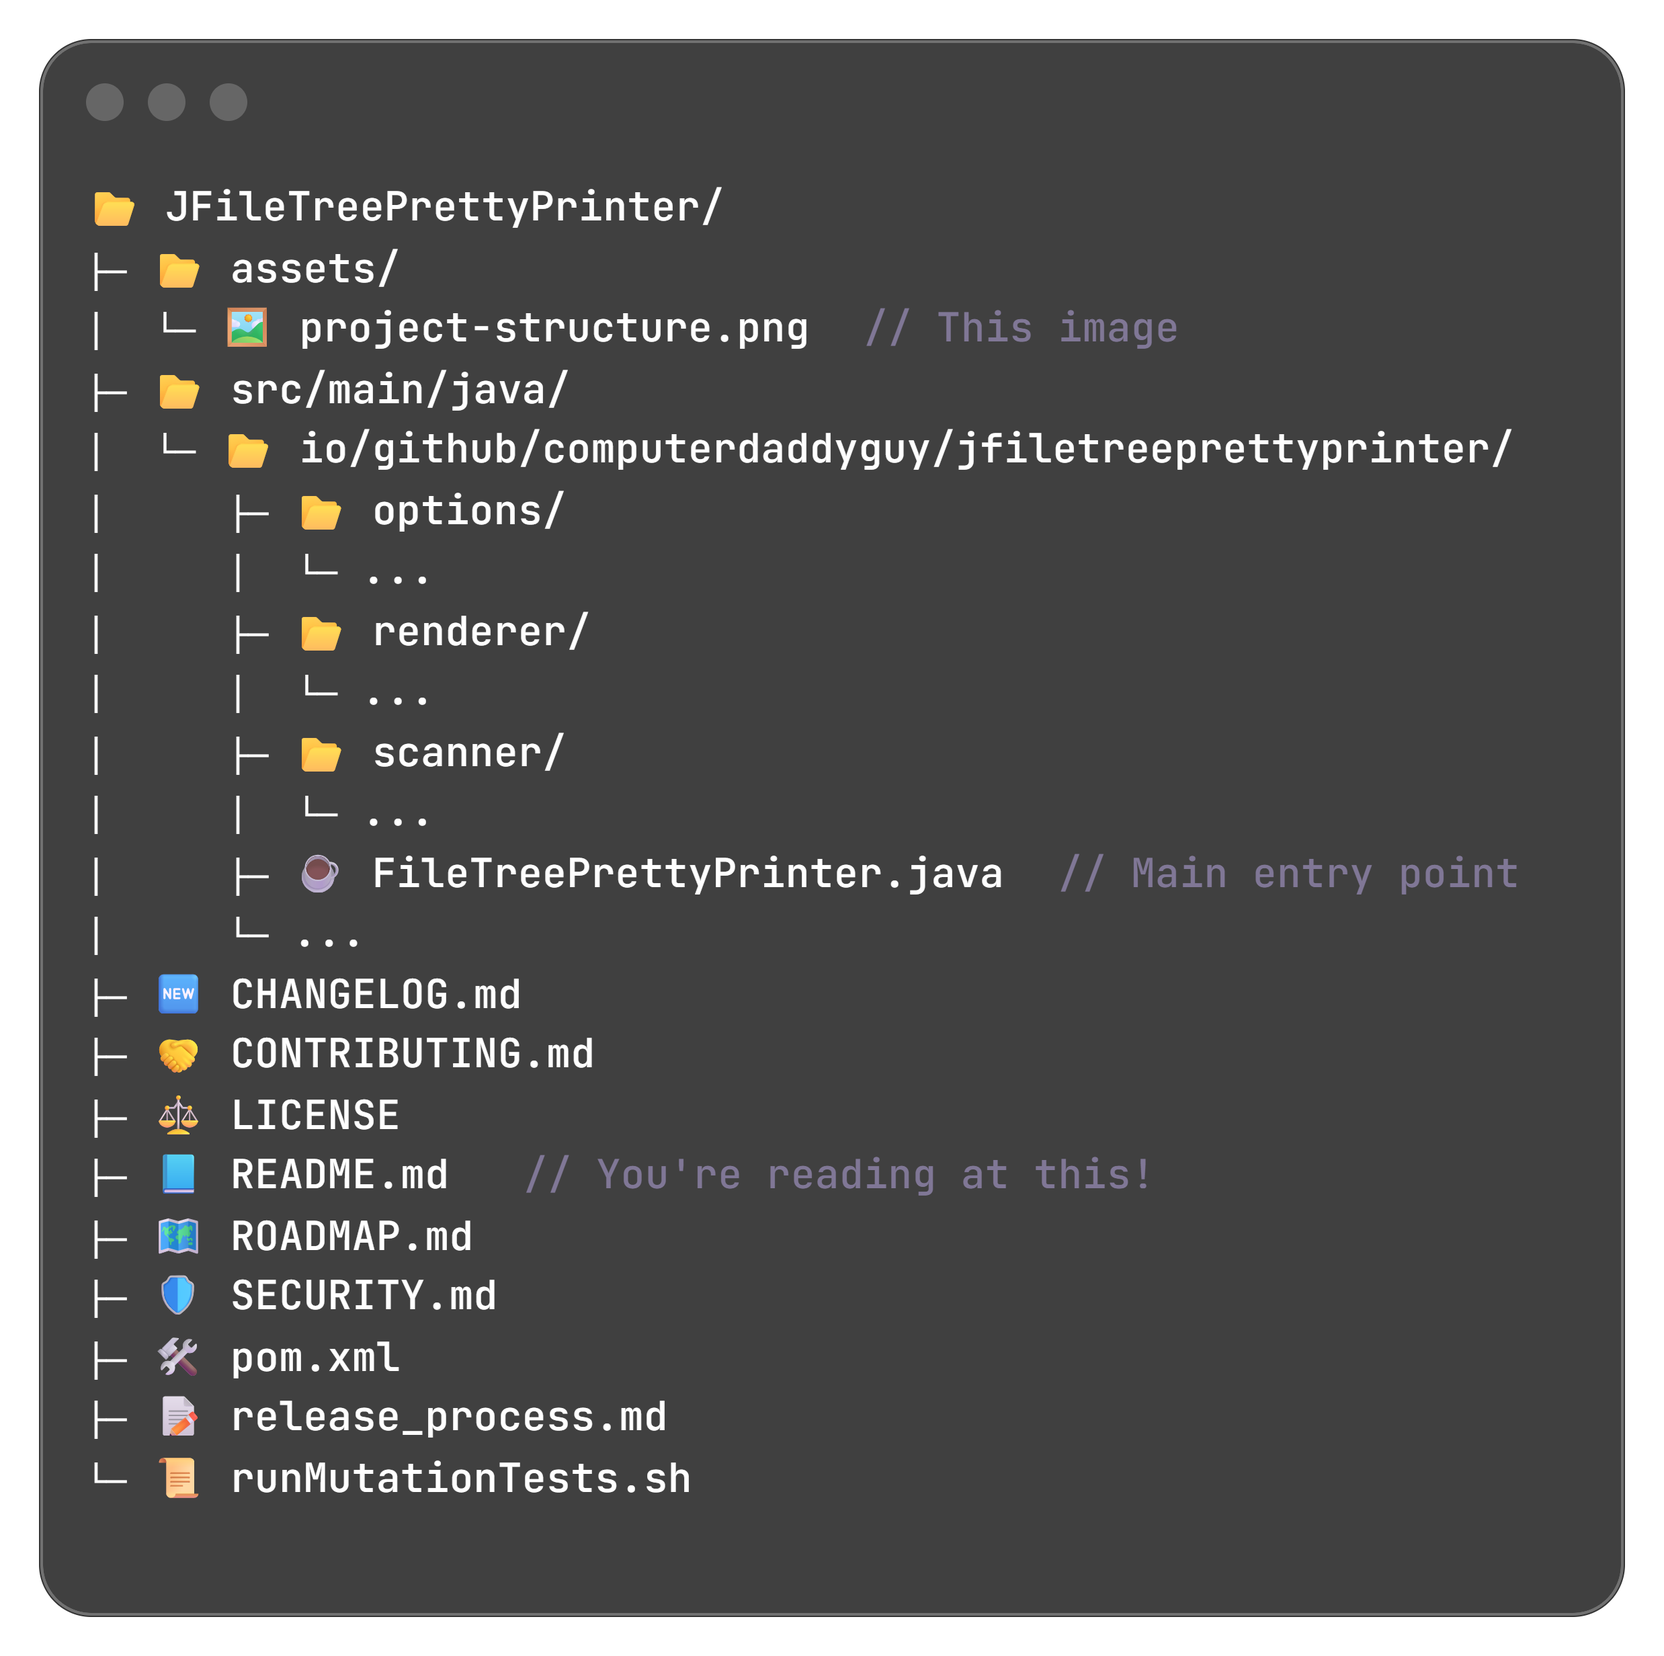
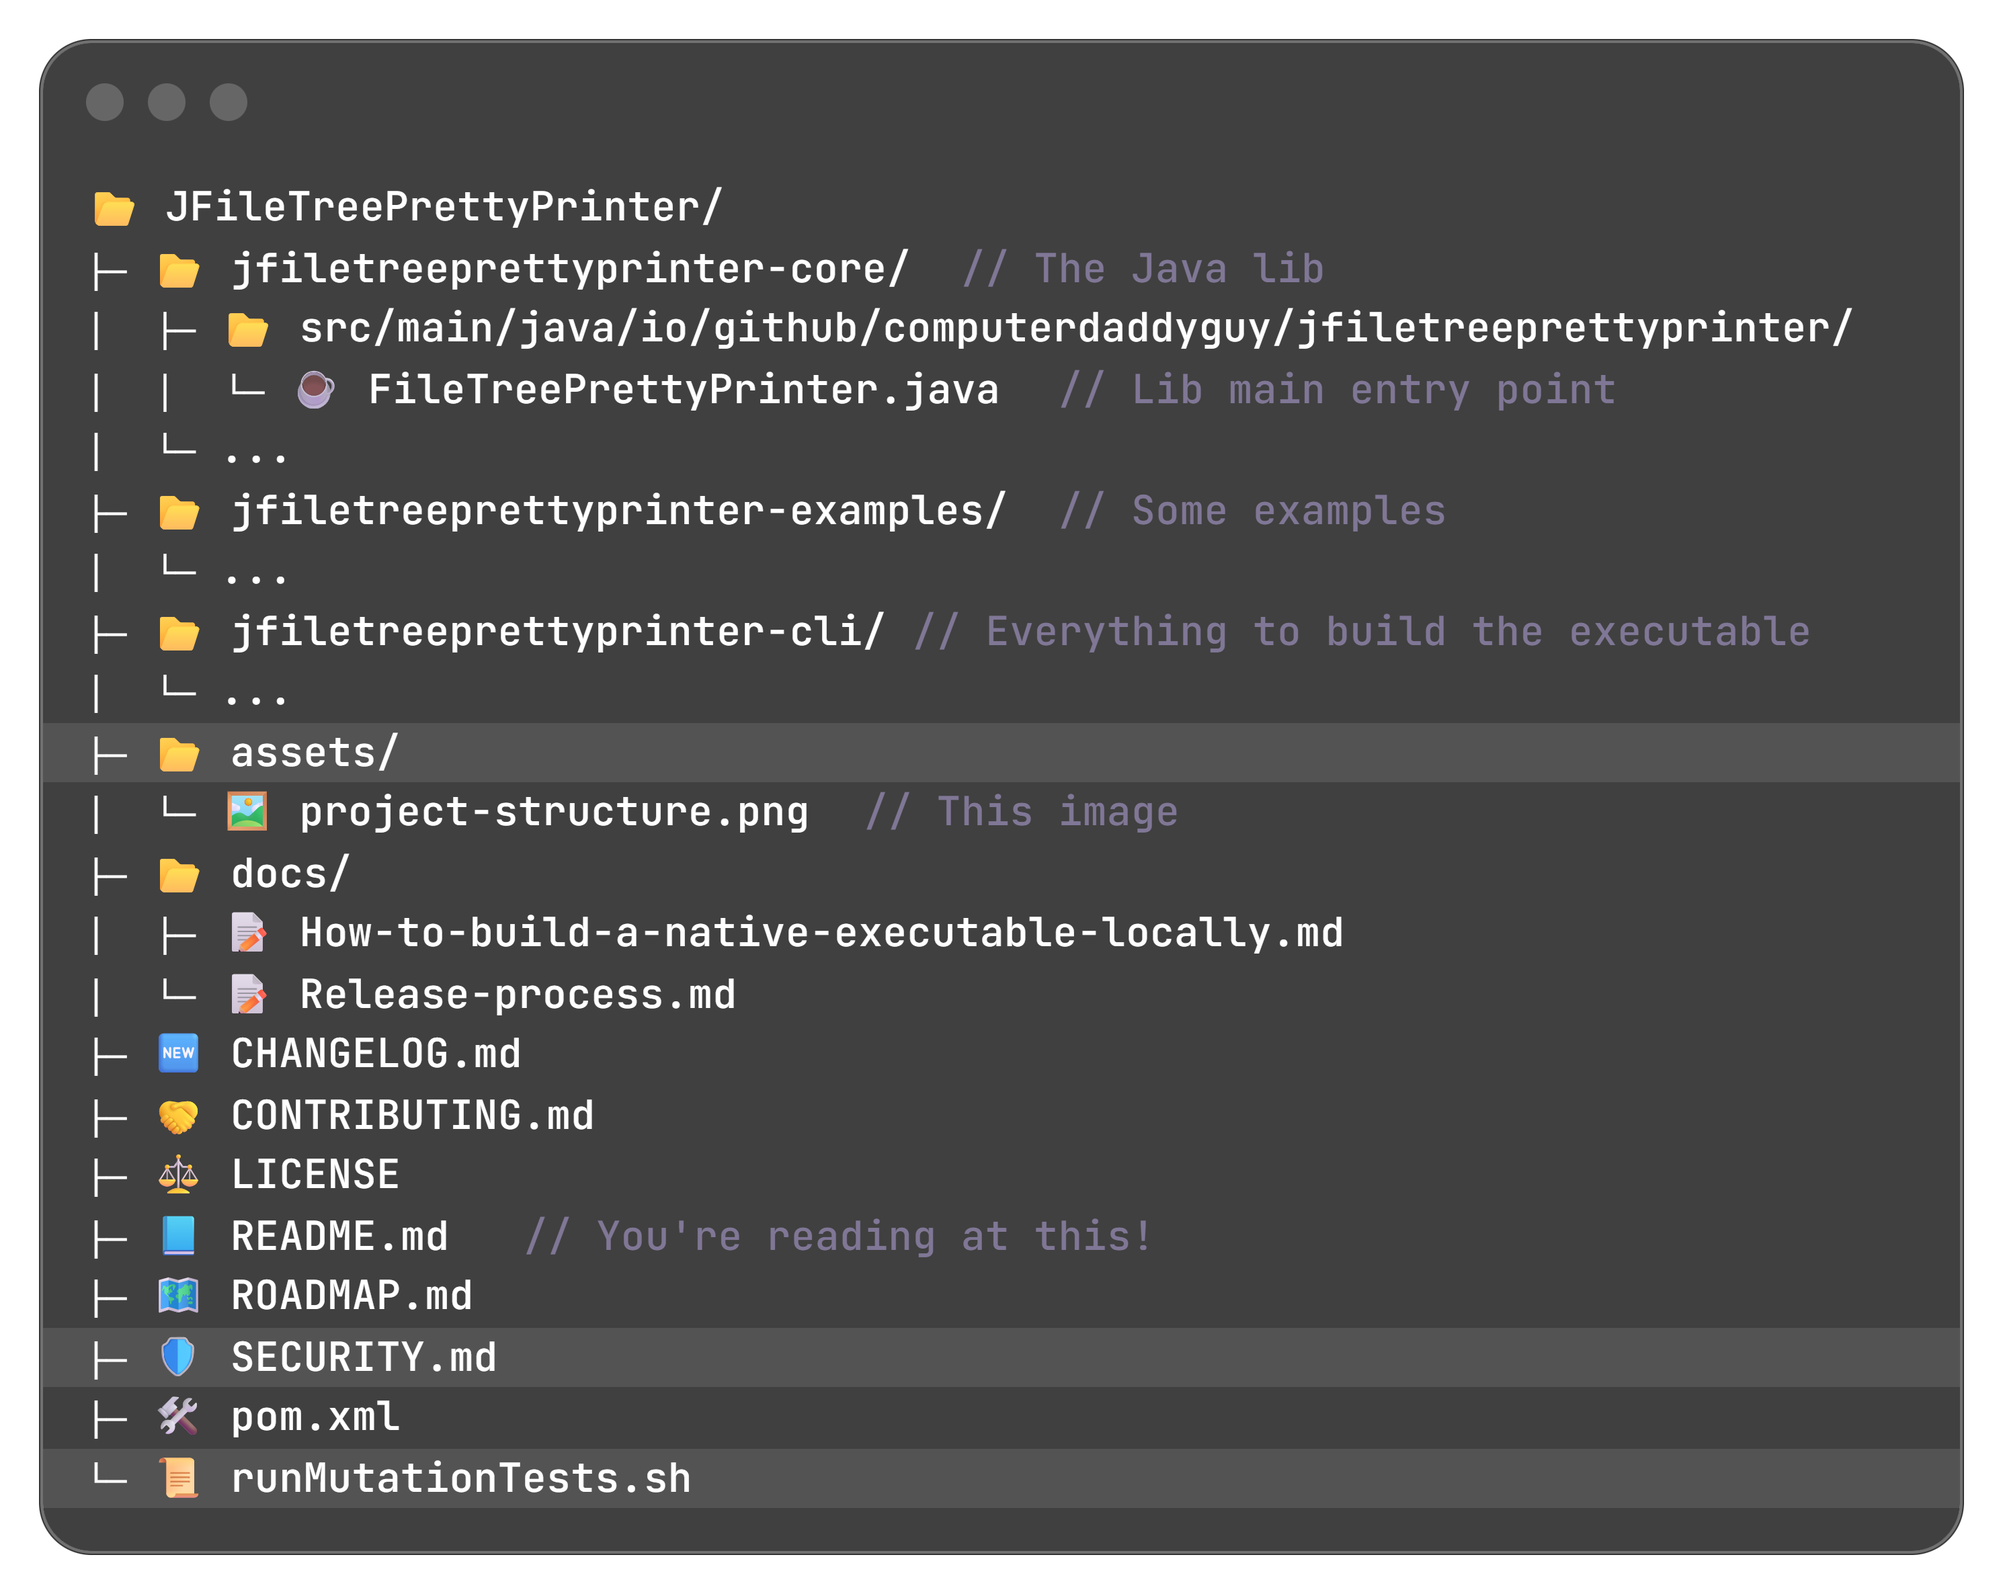
Renamed "examples" module + project structure picture update

diff --git a/jfiletreeprettyprinter-examples/src/main/java/io/github/computerdaddyguy/jfiletreeprettyprinter/example/ProjectStructure.java b/jfiletreeprettyprinter-examples/src/main/java/io/github/computerdaddyguy/jfiletreeprettyprinter/example/ProjectStructure.java
@@ -25,28 +25,44 @@ public class ProjectStructure {
 		/*
 		 * The folder to pretty print (= the JFileTreePrettyPrint project root)
 		 */
-		var projectFolder = Path.of(".");
+		var projectFolder = Path.of("..");
 
 		/*
 		 * Filter for directories (visit and display only folders that pass this filter)
 		 */
-		var dirFilter = PathMatchers.noneOf(
-			// Exclude these folders from traversal
-			PathMatchers.hasNameStartingWith("."),
-			PathMatchers.hasRelativePathMatchingGlob(projectFolder, "src/example"),
-			PathMatchers.hasRelativePathMatchingGlob(projectFolder, "src/test"),
-			PathMatchers.hasRelativePathMatchingGlob(projectFolder, "target")
+		var dirFilter = PathMatchers.anyOf(
+			PathMatchers.hasAnyDescendantMatching(PathMatchers.hasName("FileTreePrettyPrinter.java")),
+			PathMatchers.noneOf(
+				// Exclude these folders from traversal
+				PathMatchers.hasNameStartingWith("."),
+				PathMatchers.hasRelativePathMatchingGlob(projectFolder, "target"),
+				PathMatchers.hasRelativePathMatchingGlob(projectFolder, "src"),
+				PathMatchers.hasRelativePathMatchingGlob(projectFolder, "*/src/**")
+			)
 		);
-
 		/*
 		 * Filter for files (display only files that pass this filter)
 		 * Note: files for which the parent folder does not match the directory filter 
 		 * are obviously not displayed, even if they pass the file filter.
 		 */
-		var fileFilter = PathMatchers.noneOf(
+//		var fileFilter = PathMatchers.noneOf(
+//			PathMatchers.hasNameStartingWith(".")
+//		);
 
-			// Hide files with names starting with "."
-			PathMatchers.hasNameStartingWith(".")
+		var fileFilter = PathMatchers.anyOf(
+			PathMatchers.hasAbsolutePathMatchingGlob("**/jfiletreeprettyprinter-core/**/FileTreePrettyPrinter.java"),
+			PathMatchers.noneOf(
+				PathMatchers.hasAbsolutePathMatchingGlob("**/jfiletreeprettyprinter-core/**"),
+				PathMatchers.hasNameStartingWith(".")
+			)
+		);
+
+		PathMatchers.ifMatchesThenElse(
+			PathMatchers.hasAbsolutePathMatchingGlob("**/jfiletreeprettyprinter-core/src/main/java/io/github/computerdaddyguy/jfiletreeprettyprinter"),
+			PathMatchers.hasName("FileTreePrettyPrinter.java"),
+			PathMatchers.noneOf(
+				PathMatchers.hasNameStartingWith(".")
+			)
 		);
 
 		/*
@@ -54,10 +70,9 @@ public class ProjectStructure {
 		 */
 		var childLimitFunction = ChildLimits.builder()
 			// Hide all files under renderer and scanner packages
-			.add(PathMatchers.hasAbsolutePathMatchingGlob("**/io/github/computerdaddyguy/jfiletreeprettyprinter/options"), 0)
-			.add(PathMatchers.hasAbsolutePathMatchingGlob("**/io/github/computerdaddyguy/jfiletreeprettyprinter/renderer"), 0)
-			.add(PathMatchers.hasAbsolutePathMatchingGlob("**/io/github/computerdaddyguy/jfiletreeprettyprinter/scanner"), 0)
-			.add(PathMatchers.hasAbsolutePathMatchingGlob("**/io/github/computerdaddyguy/jfiletreeprettyprinter"), 4)
+			.add(PathMatchers.hasAbsolutePathMatchingGlob("**/jfiletreeprettyprinter-cli"), 0)
+			.add(PathMatchers.hasAbsolutePathMatchingGlob("**/jfiletreeprettyprinter-examples"), 0)
+			.add(PathMatchers.hasAbsolutePathMatchingGlob("**/jfiletreeprettyprinter-core"), 1)
 			.build();
 
 		/*
@@ -65,19 +80,26 @@ public class ProjectStructure {
 		 */
 		Function<Path, String> lineExtension = LineExtensions.builder()
 			.add(PathMatchers.hasName("project-structure.png"), "\t// This image")
-			.add(PathMatchers.hasName("FileTreePrettyPrinter.java"), "\t// Main entry point")
 			.add(PathMatchers.hasName("README.md"), "\t\t// You're reading at this!")
+			.add(PathMatchers.hasName("FileTreePrettyPrinter.java"), "\t// Lib main entry point")
+			.add(PathMatchers.hasName("jfiletreeprettyprinter-cli"), "\t// Everything to build the executable")
+			.add(PathMatchers.hasName("jfiletreeprettyprinter-core"), "\t// The Java lib")
+			.add(PathMatchers.hasName("jfiletreeprettyprinter-examples"), "\t// Some examples")
 			.addLineBreak(PathMatchers.hasRelativePathMatchingGlob(projectFolder, "src/main/java"))
 			.build();
 
 		/*
-		 * Sort all paths by directory first (with highest precedence),
-		 * then "FileTreePrettyPrinter.java" has precedence "-100".
-		 * All other files have default precedence "0", and are then sorted alphabetically by default.
+		 * Sort all paths setting a precedence value. Default precedence is "0", lower values have higher precedence.
+		 * Items having the same precedence value are then sorted alphabetically by default.
 		 */
 		Comparator<Path> pathComparator = PathSorts.builder()
-			.addFirst(PathMatchers.isDirectory())
-			.add(PathMatchers.hasName("FileTreePrettyPrinter.java"), -100) // Default precedence is "0"
+			// 
+			.add(PathMatchers.hasName("jfiletreeprettyprinter-core"), -100)
+			.add(PathMatchers.hasName("jfiletreeprettyprinter-examples"), -90)
+			.add(PathMatchers.hasName("jfiletreeprettyprinter-cli"), -80)
+			.add(PathMatchers.hasName("assets"), -70)
+			.add(PathMatchers.hasName("docs"), -60)
+			.add(PathMatchers.isDirectory(), -1)
 			.build();
 
 		/*
@@ -108,18 +130,19 @@ public class ProjectStructure {
 		 ================================
 		 
 		📂 JFileTreePrettyPrinter/
+		├─ 📂 jfiletreeprettyprinter-core/	// The Java lib
+		│  ├─ 📂 src/main/java/io/github/computerdaddyguy/jfiletreeprettyprinter/
+		│  │  └─ ☕ FileTreePrettyPrinter.java	// Lib main entry point
+		│  └─ ...
+		├─ 📂 jfiletreeprettyprinter-examples/	// Some examples
+		│  └─ ...
+		├─ 📂 jfiletreeprettyprinter-cli/	// Everything to build the executable
+		│  └─ ...
 		├─ 📂 assets/
 		│  └─ 🖼 project-structure.png	// This image
-		├─ 📂 src/main/java/
-		│  └─ 📂 io/github/computerdaddyguy/jfiletreeprettyprinter/
-		│     ├─ 📂 options/
-		│     │  └─ ...
-		│     ├─ 📂 renderer/
-		│     │  └─ ...
-		│     ├─ 📂 scanner/
-		│     │  └─ ...
-		│     ├─ ☕ FileTreePrettyPrinter.java	// Main entry point
-		│     └─ ...
+		├─ 📂 docs/
+		│  ├─ 📝 How-to-build-a-native-executable-locally.md
+		│  └─ 📝 Release-process.md
 		├─ 🆕 CHANGELOG.md
 		├─ 🤝 CONTRIBUTING.md
 		├─ ⚖ LICENSE
@@ -127,9 +150,7 @@ public class ProjectStructure {
 		├─ 🗺 ROADMAP.md
 		├─ 🛡 SECURITY.md
 		├─ 🛠 pom.xml
-		├─ 📝 release_process.md
 		└─ 📜 runMutationTests.sh
-		
 		
 		 */
 	}

diff --git a/jfiletreeprettyprinter-cli/src/main/java/io/github/computerdaddyguy/jfiletreeprettyprinter/cli/ManifestVersionProvider.java b/jfiletreeprettyprinter-cli/src/main/java/io/github/computerdaddyguy/jfiletreeprettyprinter/cli/ManifestVersionProvider.java
@@ -8,7 +8,6 @@ class ManifestVersionProvider implements IVersionProvider {
 
 	@Override
 	public String[] getVersion() throws Exception {
-		String implTitle = null;
 		String implVersion = null;
 		String projectDesc = null;
 		String commitId = null;
@@ -19,7 +18,6 @@ class ManifestVersionProvider implements IVersionProvider {
 		try (InputStream is = getClass().getResourceAsStream("/META-INF/MANIFEST.MF")) {
 			if (is != null) {
 				Manifest manifest = new Manifest(is);
-				implTitle = manifest.getMainAttributes().getValue("Implementation-Title");
 				implVersion = manifest.getMainAttributes().getValue("Implementation-Version");
 				projectDesc = manifest.getMainAttributes().getValue("Project-Desc");
 				commitId = manifest.getMainAttributes().getValue("Commit-Id");
@@ -30,7 +28,7 @@ class ManifestVersionProvider implements IVersionProvider {
 		}
 
 		return new String[] {
-			valueOrUnknown(implTitle) + " " + valueOrUnknown(implVersion),
+			"JFileTreePrettyPrinter " + valueOrUnknown(implVersion),
 			valueOrUnknown(projectDesc),
 			"Repository: " + valueOrUnknown(scmUrl),
 			"Commit: " + valueOrUnknown(commitId) + " (" + valueOrUnknown(commitTime) + ")",

diff --git a/jfiletreeprettyprinter-examples/src/main/java/io/github/computerdaddyguy/jfiletreeprettyprinter/example/Emojis.java b/jfiletreeprettyprinter-examples/src/main/java/io/github/computerdaddyguy/jfiletreeprettyprinter/example/Emojis.java
@@ -1,15 +1,14 @@
 package io.github.computerdaddyguy.jfiletreeprettyprinter.example;
 
 import io.github.computerdaddyguy.jfiletreeprettyprinter.FileTreePrettyPrinter;
-import io.github.computerdaddyguy.jfiletreeprettyprinter.options.TreeFormats;
 
-public class FileTreeFormat {
+public class Emojis {
 
 	public static void main(String[] args) {
 		var prettyPrinter = FileTreePrettyPrinter.builder()
-			.customizeOptions(options -> options.withTreeFormat(TreeFormats.CLASSIC_ASCII))
+			.customizeOptions(options -> options.withDefaultEmojis()) // or withEmojis(EmojiMapping) for custom mapping
 			.build();
-		var tree = prettyPrinter.prettyPrint("src/example/resources/tree_format");
+		var tree = prettyPrinter.prettyPrint("src/main/resources/emojis");
 		System.out.println(tree);
 	}
 

diff --git a/jfiletreeprettyprinter-examples/src/main/java/io/github/computerdaddyguy/jfiletreeprettyprinter/example/Sorting.java b/jfiletreeprettyprinter-examples/src/main/java/io/github/computerdaddyguy/jfiletreeprettyprinter/example/Sorting.java
@@ -1,14 +1,15 @@
 package io.github.computerdaddyguy.jfiletreeprettyprinter.example;
 
 import io.github.computerdaddyguy.jfiletreeprettyprinter.FileTreePrettyPrinter;
+import io.github.computerdaddyguy.jfiletreeprettyprinter.options.PathSorts;
 
-public class Emojis {
+public class Sorting {
 
 	public static void main(String[] args) {
 		var prettyPrinter = FileTreePrettyPrinter.builder()
-			.customizeOptions(options -> options.withDefaultEmojis()) // or withEmojis(EmojiMapping) for custom mapping
+			.customizeOptions(options -> options.sort(PathSorts.DIRECTORY_FIRST))
 			.build();
-		var tree = prettyPrinter.prettyPrint("src/example/resources/emojis");
+		var tree = prettyPrinter.prettyPrint("src/main/resources/sorting");
 		System.out.println(tree);
 	}
 

diff --git a/jfiletreeprettyprinter-examples/src/main/java/io/github/computerdaddyguy/jfiletreeprettyprinter/example/FileTreeFormat.java b/jfiletreeprettyprinter-examples/src/main/java/io/github/computerdaddyguy/jfiletreeprettyprinter/example/FileTreeFormat.java
@@ -1,14 +1,15 @@
 package io.github.computerdaddyguy.jfiletreeprettyprinter.example;
 
 import io.github.computerdaddyguy.jfiletreeprettyprinter.FileTreePrettyPrinter;
+import io.github.computerdaddyguy.jfiletreeprettyprinter.options.TreeFormats;
 
-public class MaxDepth {
+public class FileTreeFormat {
 
 	public static void main(String[] args) {
 		var prettyPrinter = FileTreePrettyPrinter.builder()
-			.customizeOptions(options -> options.withMaxDepth(3))
+			.customizeOptions(options -> options.withTreeFormat(TreeFormats.CLASSIC_ASCII))
 			.build();
-		var tree = prettyPrinter.prettyPrint("src/example/resources/max_depth");
+		var tree = prettyPrinter.prettyPrint("src/main/resources/tree_format");
 		System.out.println(tree);
 	}
 

diff --git a/jfiletreeprettyprinter-examples/src/main/java/io/github/computerdaddyguy/jfiletreeprettyprinter/example/ChildLimitStatic.java b/jfiletreeprettyprinter-examples/src/main/java/io/github/computerdaddyguy/jfiletreeprettyprinter/example/ChildLimitStatic.java
@@ -1,15 +1,14 @@
 package io.github.computerdaddyguy.jfiletreeprettyprinter.example;
 
 import io.github.computerdaddyguy.jfiletreeprettyprinter.FileTreePrettyPrinter;
-import io.github.computerdaddyguy.jfiletreeprettyprinter.options.PathSorts;
 
-public class Sorting {
+public class ChildLimitStatic {
 
 	public static void main(String[] args) {
 		var prettyPrinter = FileTreePrettyPrinter.builder()
-			.customizeOptions(options -> options.sort(PathSorts.DIRECTORY_FIRST))
+			.customizeOptions(options -> options.withChildLimit(3))
 			.build();
-		var tree = prettyPrinter.prettyPrint("src/example/resources/sorting");
+		var tree = prettyPrinter.prettyPrint("src/main/resources/child_limit_static");
 		System.out.println(tree);
 	}
 

diff --git a/jfiletreeprettyprinter-examples/src/main/java/io/github/computerdaddyguy/jfiletreeprettyprinter/example/MaxDepth.java b/jfiletreeprettyprinter-examples/src/main/java/io/github/computerdaddyguy/jfiletreeprettyprinter/example/MaxDepth.java
@@ -2,11 +2,13 @@ package io.github.computerdaddyguy.jfiletreeprettyprinter.example;
 
 import io.github.computerdaddyguy.jfiletreeprettyprinter.FileTreePrettyPrinter;
 
-public class BasicUsage {
+public class MaxDepth {
 
 	public static void main(String[] args) {
-		var prettyPrinter = FileTreePrettyPrinter.createDefault();
-		var tree = prettyPrinter.prettyPrint("src/example/resources/base");
+		var prettyPrinter = FileTreePrettyPrinter.builder()
+			.customizeOptions(options -> options.withMaxDepth(3))
+			.build();
+		var tree = prettyPrinter.prettyPrint("src/main/resources/max_depth");
 		System.out.println(tree);
 	}
 

diff --git a/jfiletreeprettyprinter-examples/src/main/java/io/github/computerdaddyguy/jfiletreeprettyprinter/example/LineExtension.java b/jfiletreeprettyprinter-examples/src/main/java/io/github/computerdaddyguy/jfiletreeprettyprinter/example/LineExtension.java
@@ -9,7 +9,7 @@ import java.util.function.Function;
 public class LineExtension {
 
 	public static void main(String[] args) {
-		var printedPath = Path.of("src/example/resources/line_extension");
+		var printedPath = Path.of("src/main/resources/line_extension");
 
 		Function<Path, String> lineExtension = LineExtensions.builder()
 			.add(PathMatchers.hasRelativePathMatchingGlob(printedPath, "src/main/java/api"), "\t\t\t// All API code: controllers, etc.")

diff --git a/jfiletreeprettyprinter-examples/src/main/java/io/github/computerdaddyguy/jfiletreeprettyprinter/example/BasicUsage.java b/jfiletreeprettyprinter-examples/src/main/java/io/github/computerdaddyguy/jfiletreeprettyprinter/example/BasicUsage.java
@@ -1,0 +1,13 @@
+package io.github.computerdaddyguy.jfiletreeprettyprinter.example;
+
+import io.github.computerdaddyguy.jfiletreeprettyprinter.FileTreePrettyPrinter;
+
+public class BasicUsage {
+
+	public static void main(String[] args) {
+		var prettyPrinter = FileTreePrettyPrinter.createDefault();
+		var tree = prettyPrinter.prettyPrint("src/main/resources/base");
+		System.out.println(tree);
+	}
+
+}

diff --git a/jfiletreeprettyprinter-examples/src/main/java/io/github/computerdaddyguy/jfiletreeprettyprinter/example/CompactDirectories.java b/jfiletreeprettyprinter-examples/src/main/java/io/github/computerdaddyguy/jfiletreeprettyprinter/example/CompactDirectories.java
@@ -8,7 +8,7 @@ public class CompactDirectories {
 		var prettyPrinter = FileTreePrettyPrinter.builder()
 			.customizeOptions(options -> options.withCompactDirectories(true))
 			.build();
-		var tree = prettyPrinter.prettyPrint("src/example/resources/single_directory_child");
+		var tree = prettyPrinter.prettyPrint("src/main/resources/single_directory_child");
 		System.out.println(tree);
 	}
 

diff --git a/jfiletreeprettyprinter-examples/src/main/java/io/github/computerdaddyguy/jfiletreeprettyprinter/example/ChildLimitDynamic.java b/jfiletreeprettyprinter-examples/src/main/java/io/github/computerdaddyguy/jfiletreeprettyprinter/example/ChildLimitDynamic.java
@@ -14,7 +14,7 @@ public class ChildLimitDynamic {
 		var prettyPrinter = FileTreePrettyPrinter.builder()
 			.customizeOptions(options -> options.withChildLimit(childLimit))
 			.build();
-		var tree = prettyPrinter.prettyPrint("src/example/resources/child_limit_dynamic");
+		var tree = prettyPrinter.prettyPrint("src/main/resources/child_limit_dynamic");
 		System.out.println(tree);
 	}
 

diff --git a/jfiletreeprettyprinter-core/src/main/java/io/github/computerdaddyguy/jfiletreeprettyprinter/DefaultFileTreePrettyPrinter.java b/jfiletreeprettyprinter-core/src/main/java/io/github/computerdaddyguy/jfiletreeprettyprinter/DefaultFileTreePrettyPrinter.java
@@ -20,6 +20,7 @@ class DefaultFileTreePrettyPrinter implements FileTreePrettyPrinter {
 	@Override
 	public String prettyPrint(Path path) {
 		Objects.requireNonNull(path, "path cannot be null");
+		path = path.toAbsolutePath().normalize();
 		var tree = scanner.scan(path);
 		return renderer.renderTree(tree);
 	}
